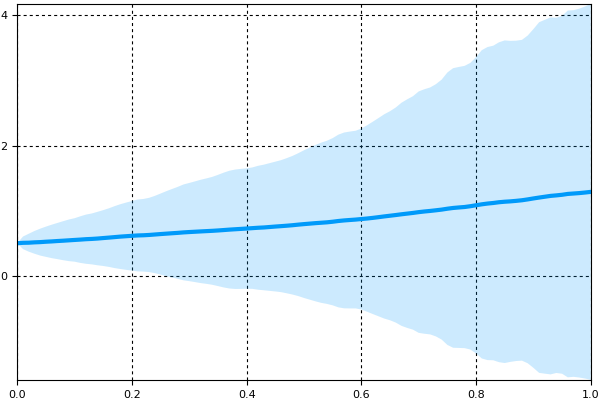
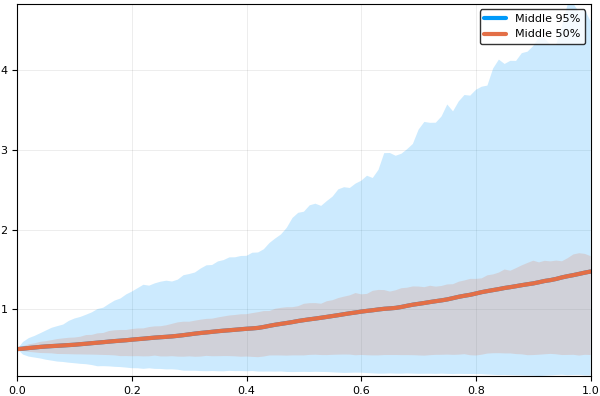
fix monte plot in tutorial

diff --git a/docs/src/tutorials/sde_example.md b/docs/src/tutorials/sde_example.md
@@ -125,7 +125,9 @@ the statistics at every `0.01` timesteps and plot the average + error using:
 
 ```julia
 summ = MonteCarloSummary(sol,0:0.01:1)
-plot(summ)
+plot(summ,labels="Middle 95%")
+summ = MonteCarloSummary(sol,0:0.01:1;quantiles=[0.25,0.75])
+plot!(summ,labels="Middle 50%",legend=true)
 ```
 
 ![sde_tutorial_monte](../assets/sde_tutorial_monte.png)
